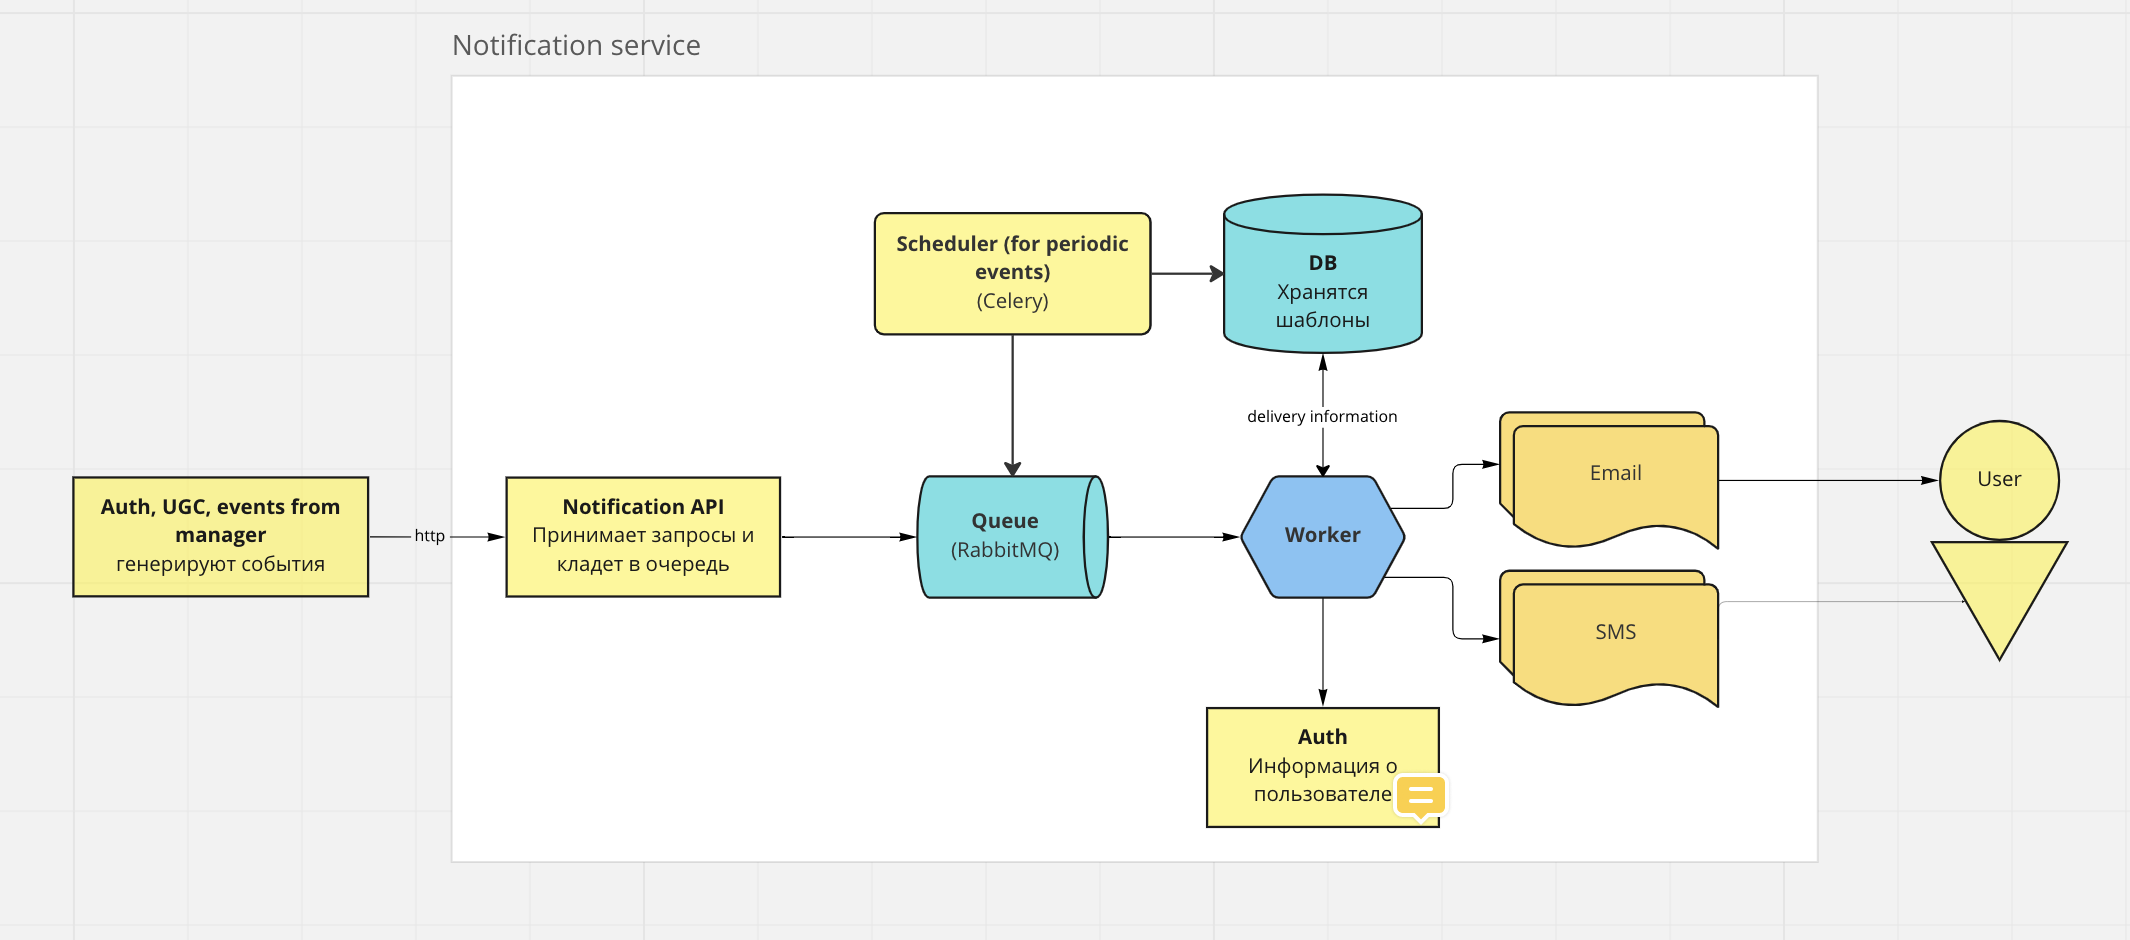
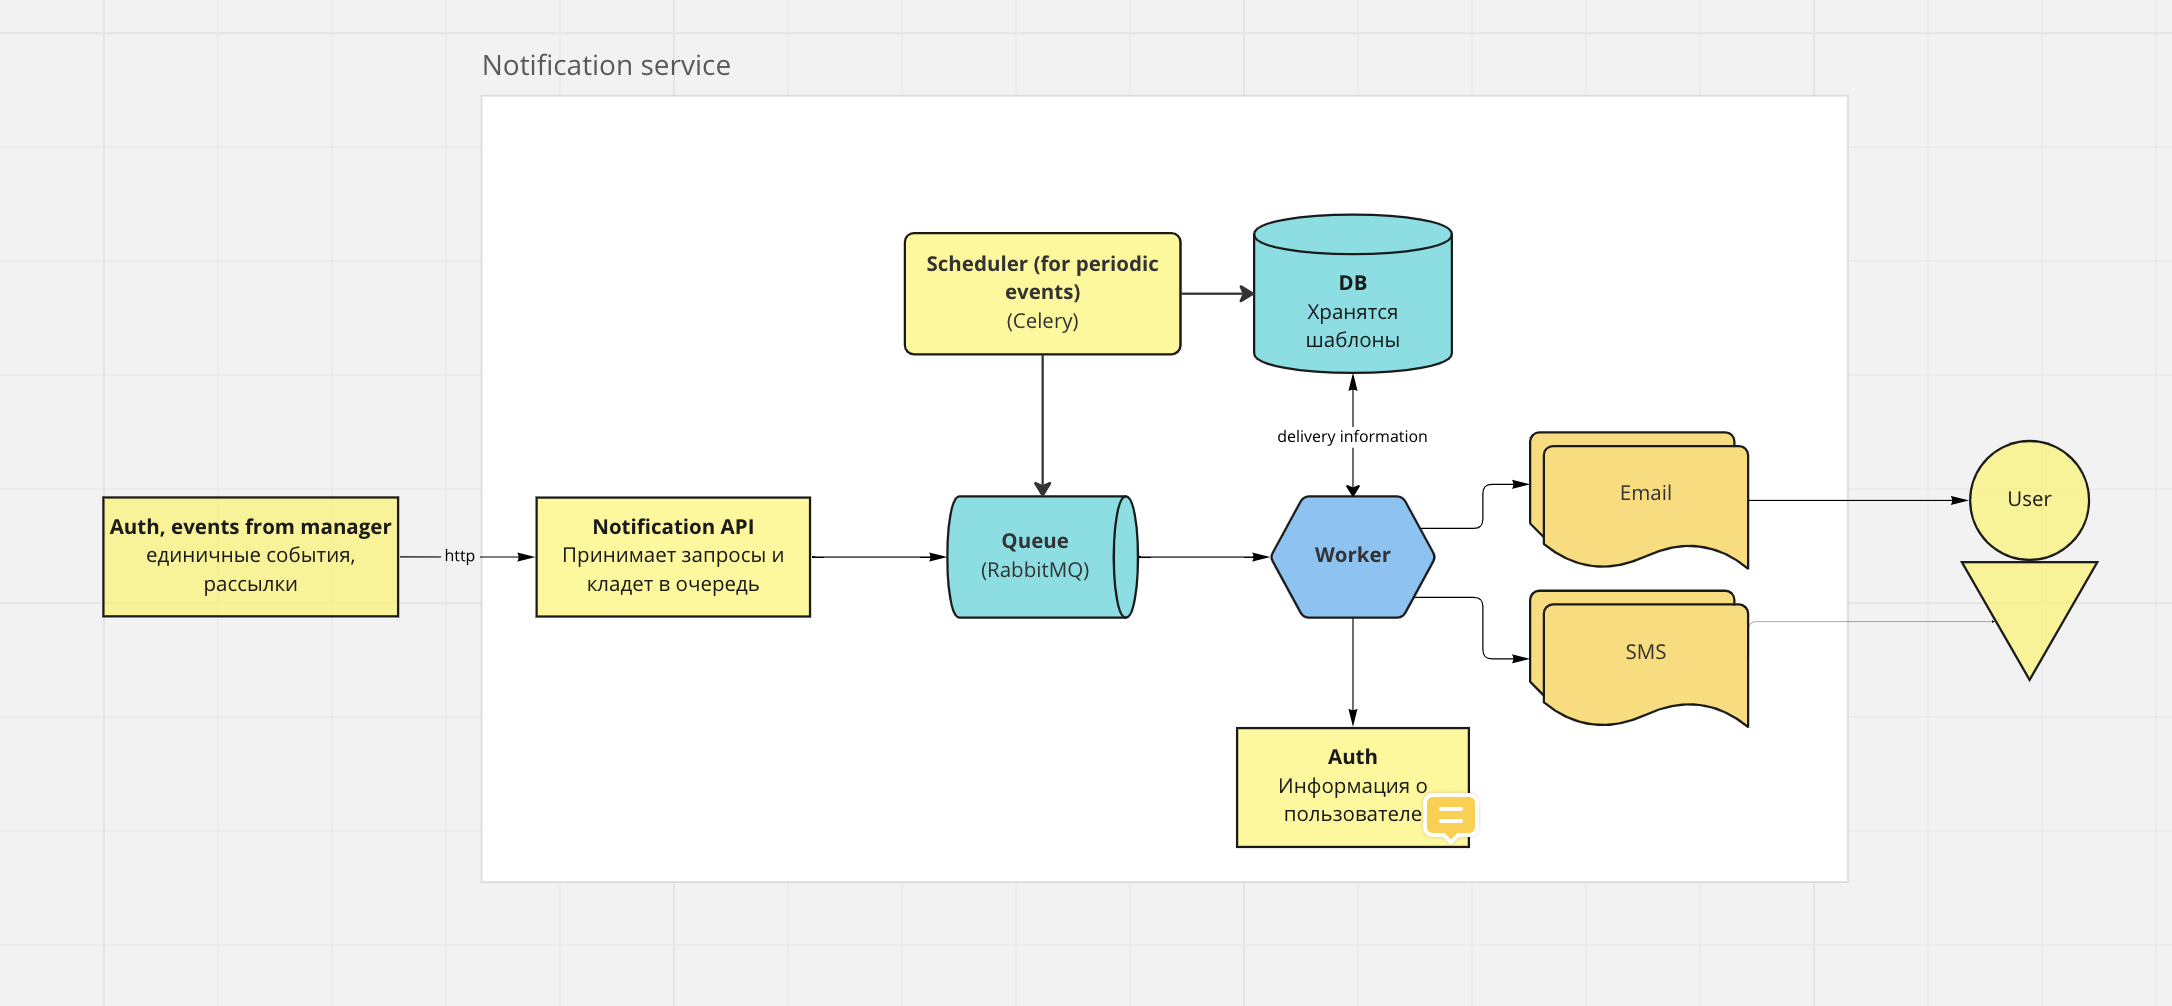
add auth data

diff --git a/workers/src/consumer_services/send_email.py b/workers/src/consumer_services/send_email.py
@@ -3,7 +3,7 @@ import smtplib
 from email.message import EmailMessage
 from jinja2 import Environment, FileSystemLoader, select_autoescape
 from settings.email import config
-from typing import List
+from typing import List, Union
 
 
 class EmailSender:
@@ -39,13 +39,16 @@ class EmailSender:
         })  # Заполняем шаблон нужной информацией
         # В jinja2 также есть асинхронный рендер: template.render_async
 
-    def send_msg(self, receivers: List[str]) -> None:  # type: ignore
+    def send_msg(self, receivers: List[str]) -> Union[None, str]:  # type: ignore
         # Для отправки HTML-письма нужно вместо метода `set_content` использовать `add_alternative` с subtype "html",
         # Иначе пользователю придёт набор тегов вместо красивого письма
         self.message.add_alternative(self.output, subtype='html')
-        self.server.sendmail(from_addr=self.mail_user,
-                             to_addrs=receivers,
-                             msg=self.message.as_string())
+        try:
+            self.server.sendmail(from_addr=self.mail_user,
+                                 to_addrs=receivers,
+                                 msg=self.message.as_string())
+        except smtplib.SMTPDataError:
+            return 'user not found'
         self.server.close()
 
 

diff --git a/workers/src/consumer_services/additonal_data.py b/workers/src/consumer_services/additonal_data.py
@@ -2,18 +2,18 @@ from typing import Dict, List, Union
 
 
 def additional_info_for_email(routing_key: str,
-                              user: str,
+                              user: dict,
                               content: List) -> dict:
     add_data: Dict[str, Union[List[str], str]] = {}
     if routing_key == 'registration':
-        add_data['receivers'] = ['education_tests@mail.ru']
-        add_data['subject'] = f'Registration update {user}'
+        add_data['receivers'] = [user['email']]
+        add_data['subject'] = f'Registration update for {user["name"]}'
         add_data['title'] = 'Registration complete'
         add_data['template'] = 'mail.html'
         add_data['text'] = 'Thanks for registration'
     elif routing_key == 'celery':
-        add_data['receivers'] = ['education_tests@mail.ru']
-        add_data['subject'] = f'Likes update for {user}'
+        add_data['receivers'] = [user['email']]
+        add_data['subject'] = f'Likes update for {user["name"]}'
         add_data['title'] = 'Since last time you received likes for next movies:'
         add_data['template'] = 'likes.html'
         add_data['text'] = ''

diff --git a/workers/src/consumer_services/auth_data.py b/workers/src/consumer_services/auth_data.py
@@ -1,0 +1,35 @@
+import json
+import logging
+import os
+import sys
+from typing import Any
+
+import requests
+
+sys.path.append(os.path.dirname(__file__) + '/..')
+from settings.common.config import settings  # noqa: E402
+
+# create console handler and set level to debug
+_log_handler = logging.StreamHandler()
+_log_handler.setLevel(logging.DEBUG)
+
+
+logger = logging.getLogger('fast_api')
+logger.addHandler(_log_handler)
+logger.setLevel(logging.DEBUG)
+
+
+def get_data_from_auth(user_id: str) -> Any:
+    params = {'user_id': user_id}
+    response = requests.get(
+        f'{settings.AUTH_SERVICE}/v1/user_by_id',
+        params=params,
+    )
+    logger.info(response.content)
+    print(response.content)
+    json_data = json.loads(response.content)
+    return json_data['user']
+
+
+if __name__ == '__main__':
+    get_data_from_auth('56d2cbdc-d46c-44c7-b61f-3716863a2977')

diff --git a/workers/src/consumer_services/generate_email.py b/workers/src/consumer_services/generate_email.py
@@ -2,6 +2,7 @@ import logging
 
 from consumer_services import send_email  # noqa: E402
 from consumer_services.additonal_data import additional_info_for_email  # noqa: E402
+from consumer_services.auth_data import get_data_from_auth
 
 logger = logging.getLogger(__name__)
 
@@ -9,9 +10,10 @@ logger = logging.getLogger(__name__)
 def generate_email(routing_key: str, body_json: dict) -> None:
     payload = body_json['payload']
     for user in payload['users']:
+        user_data = get_data_from_auth(user['user']['user_id'])
         content = user['content']
         add_data = additional_info_for_email(
-            routing_key, user['user']['user_id'], content,
+            routing_key, user_data, content,
         )
         if add_data:
             send_email.main(add_data['receivers'],

diff --git a/fast_api/src/services/queue.py b/fast_api/src/services/queue.py
@@ -55,7 +55,9 @@ class QueueRabbit(AbstractQueue):
     @staticmethod
     async def generate_payload(user_id: str) -> Dict:
         # payload - {users:
-        #               [{user : {user_id : user_id_1},
+        #               [{user : {user_id : user_id_1,
+        #                         name: login,
+        #                         email: email},
         #                 content: {user_id: user_id}   # noqa: E800
         #                   },
         #               ]}   # noqa: E800

diff --git a/workers/src/events_generator/generator.py b/workers/src/events_generator/generator.py
@@ -78,8 +78,7 @@ def generate_event() -> None:
                   scheduled_datetime=scheduled_time,
                   payload=payload,
                   )
-    event_j = event.json()
-    generate_email('celery', json.loads(event_j))
+    generate_email('celery', json.loads(event.json()))
 
 
 if __name__ == '__main__':

diff --git a/workers/src/settings/common/config.py b/workers/src/settings/common/config.py
@@ -17,6 +17,7 @@ class Settings(BaseSettings):
     SCHEDULE: Optional[int]
     HOUR: Optional[str]
     MINUTE: Optional[str]
+    AUTH_SERVICE: Optional[str]
 
     class Config:
         env_file = '.env'

diff --git a/README.md b/README.md
@@ -4,7 +4,7 @@
 
 Схема сервиса:
 
-![scheme](/scheme/Notification%20scheme.png)
+![scheme](/scheme/Notification_scheme.png)
 
 
 Запуск базы данных из папки **MongoDB**:
@@ -32,7 +32,7 @@ Workers:
 ###Приветственное письмо после регистрации пользователя: ###
 API -> Queue -> Worker -> Email
 
-**API** *127.0.0.1:80/api/openapi*
+**API** *127.0.0.1:81/api/openapi*
 
 - Регистрация пользователя */api/v1/user_registration*:
 
@@ -43,7 +43,7 @@ API -> Queue -> Worker -> Email
 API кладет сообщение в очередь (RabbitMQ),
 далее consumer в реальном времени читает очередь и отправляет письмо пользователю
 
-[Auth service]()
+[Auth service](https://github.com/NataliaLaktyushkina/Auth_sprint_2)
 
 ###Периодические события: ###
 [Events generator](workers/src/events_generator/generator.py)
